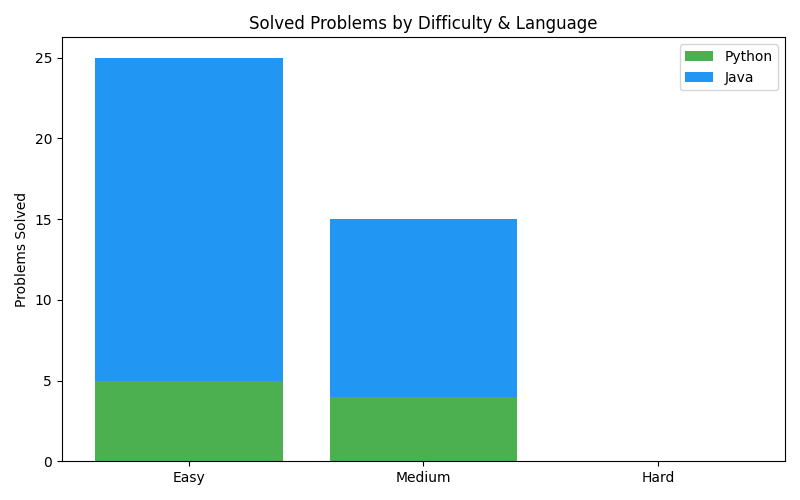
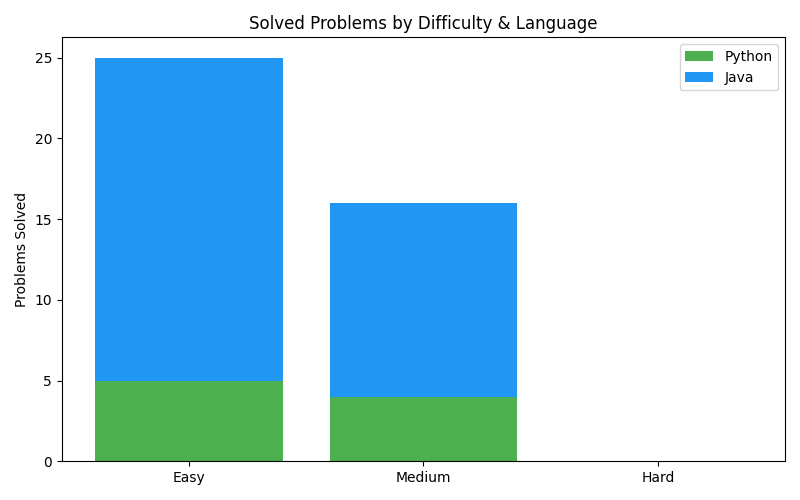
max product subarray

Changed region(s): [[0.4062, 0.39, 0.6562, 0.45]]

diff --git a/medium/152-maximum-product-subarray/solution/Solution.java b/medium/152-maximum-product-subarray/solution/Solution.java
@@ -1,0 +1,31 @@
+class Solution {
+    public int maxProduct(int[] nums) {
+        // Bruteforce solution
+        // int maxProduct = nums[0];
+        
+        // for(int i = 0; i < nums.length; i++){
+        //     int currProduct = 1;
+        //     for(int j = i; j < nums.length; j++){
+        //         currProduct *= nums[j];
+        //         maxProduct = Math.max(currProduct, maxProduct);
+        //     }
+        // }
+        // return maxProduct;
+
+        int maxProduct = nums[0], minProduct = nums[0], result = nums[0];
+
+        for(int i = 1; i < nums.length; i++){
+            int n = nums[i];
+            if(n < 0){
+                int temp = maxProduct;
+                maxProduct = minProduct;
+                minProduct = temp;
+            }
+
+            minProduct = Math.min(n, minProduct * n);
+            maxProduct = Math.max(n, maxProduct * n);
+            result  = Math.max(result, maxProduct);
+        }
+        return result;
+    }
+}

diff --git a/medium/152-maximum-product-subarray/README.md b/medium/152-maximum-product-subarray/README.md
@@ -1,0 +1,82 @@
+# 152. Maximum Product Subarray
+
+**Difficulty:** Medium  
+**Link:** [https://leetcode.com/problems/maximum-product-subarray/](https://leetcode.com/problems/maximum-product-subarray/)
+
+## Problem Description
+
+Given an integer array 
+nums
+, find a 
+subarray
+ that has the largest product, and return 
+the product
+.
+
+
+The test cases are generated so that the answer will fit in a 
+32-bit
+ integer.
+
+
+ 
+
+
+Example 1:
+
+
+
+
+Input:
+ nums = [2,3,-2,4]
+
+Output:
+ 6
+
+Explanation:
+ [2,3] has the largest product 6.
+
+
+
+Example 2:
+
+
+
+
+Input:
+ nums = [-2,0,-1]
+
+Output:
+ 0
+
+Explanation:
+ The result cannot be 2, because [-2,-1] is not a subarray.
+
+
+
+ 
+
+
+Constraints:
+
+
+
+
+1 <= nums.length <= 2 * 10
+4
+
+
+-10 <= nums[i] <= 10
+
+
+The product of any subarray of 
+nums
+ is 
+guaranteed
+ to fit in a 
+32-bit
+ integer.
+
+
+
+

diff --git a/README.md b/README.md
@@ -27,6 +27,8 @@ My solutions to LeetCode problems in Python and Java
 
 
 
+
+
 ## 📊 Problem Distribution
 ![By Difficulty and Language](assets/progress_difficulty_language.png)
 ![By Difficulty (Pie)](assets/pie_difficulty.png)
